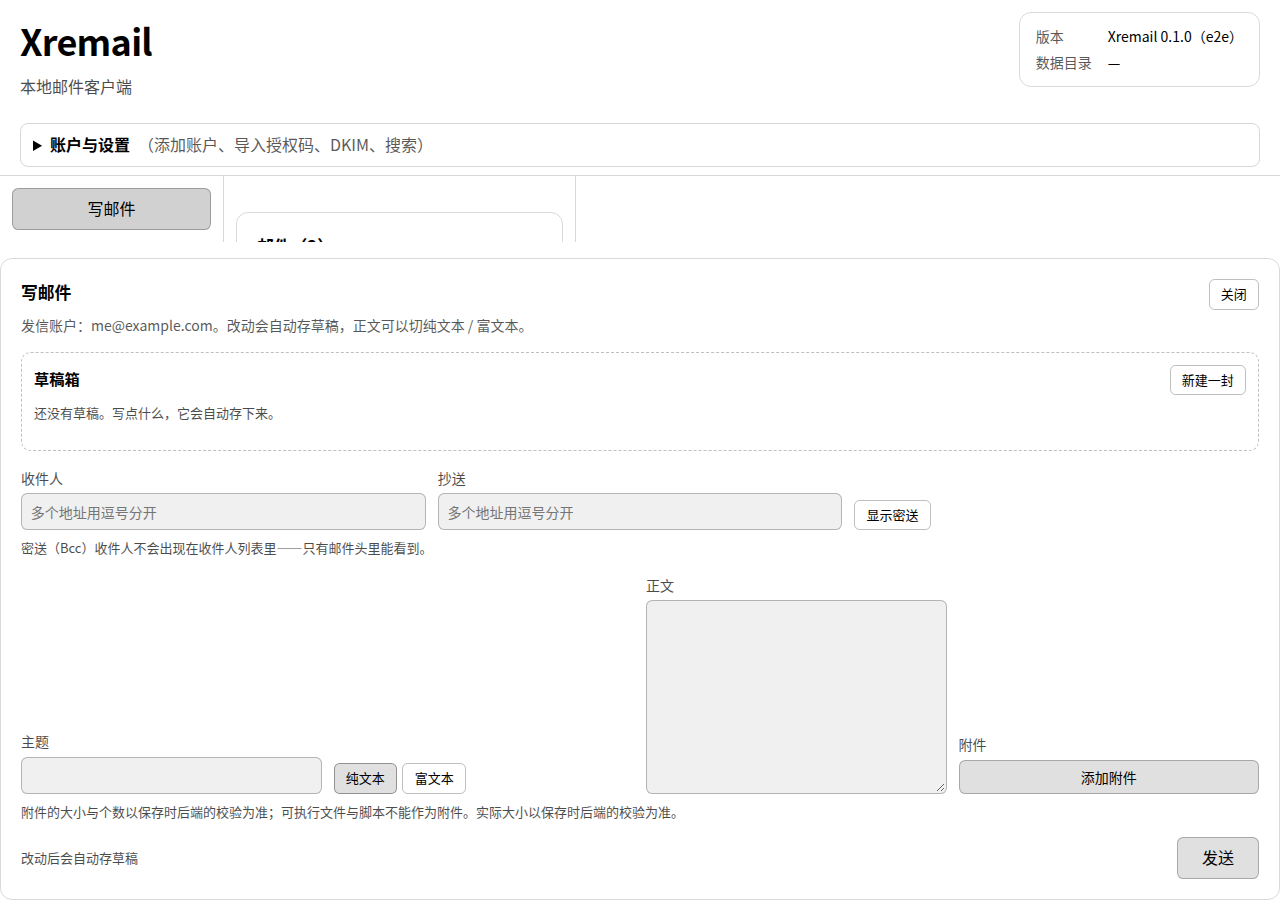
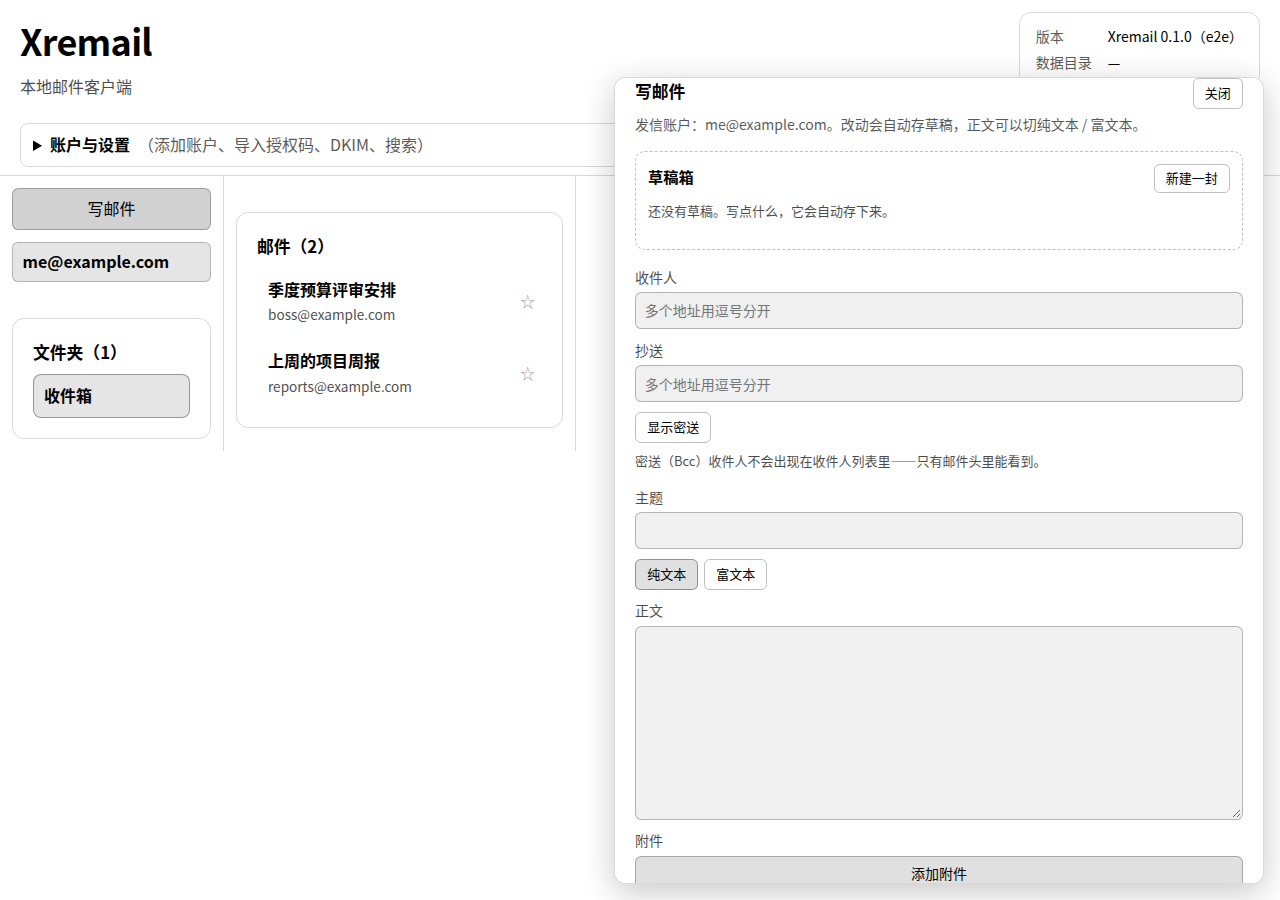
feat(ui): 左栏只留账户切换与文件夹，写信面板改成浮层
第一版三栏改完之后截图暴露出两个问题（都是布局问题，不是逻辑问题）：

## 左栏被账户管理卡撑满
AccountList 是一张完整的管理卡（邮箱、服务商、IMAP/SMTP 地址、授权码输入框、
同步、忘记凭据、删除、DKIM），塞进 11–14rem 的左栏后光它就占掉一屏，
「文件夹」被挤到视口外——每换一次文件夹都要先滚一下，正好违背「要快」。

Gmail 的左栏也只有「写信 + 文件夹」，账户管理在设置里。照做：
- 新增 AccountSwitcher：左栏顶部只做**账户切换**（一行一个邮箱，选中高亮）
- 完整的 AccountList 移进「账户与设置」

## 写信面板把三栏全盖住
compose-panel 原先是普通 section，跟在其它区块后面排；改成三栏后它变成
整页宽的一条，而且内部 repeat(auto-fit, minmax(14rem, 1fr)) 在宽容器里挤成
两列，导致「正文」和「附件」并排、附件掉到右下角。

改法：
- 写信面板改成**右下角浮层**（Gmail 的做法），不参与文档流，写信时还能看列表
- compose-fields 改成单列：写信的阅读顺序是自上而下的，多列只会让人扫错行

## 两处连带修复
- account-email 允许 anywhere 断行、account-detail 两行截断——窄栏里长邮箱
  会把「删除」按钮挤重叠（截图里能看到 me@example.com 与「删除」叠在一起）
- AccountSwitcher 的按钮加 aria-label「切换到 …」，避免与设置区里的管理卡
  重名：账户邮箱现在出现两次，测试按 accessible name 查找会撞车（61 条红）

验证：单测 95 条、E2E 10 条（含 2 条性能）、Rust 1144 条全绿。

diff --git a/apps/shell/src/App.css b/apps/shell/src/App.css
@@ -712,7 +712,10 @@ body {
 
 .compose-fields {
   display: grid;
-  grid-template-columns: repeat(auto-fit, minmax(14rem, 1fr));
+  /* **单列**。原来是 `repeat(auto-fit, minmax(14rem, 1fr))`——在宽容器里会
+     挤成两列，于是「正文」和「附件」并排出现（截图里正文在左、附件掉到右
+     下角）。写信的阅读顺序是自上而下的，多列只会让人扫错行。 */
+  grid-template-columns: minmax(0, 1fr);
   gap: 0.6rem 0.75rem;
   align-items: end;
 }
@@ -1084,4 +1087,109 @@ body {
   user-select: none;
   font-size: 0.9rem;
   opacity: 0.8;
+}
+
+/* ===========================================================================
+   写信面板：右下角浮层（Gmail 的做法）
+   ===========================================================================
+
+   以前 `.compose-panel` 是一个普通 `<section>`，跟在其它区块后面一起纵向排。
+   改成三栏之后它就变成了「整页宽的一条」——把三栏全盖住，而且它内部那个
+   固定宽度的正文框在宽屏上被拉得很怪（正文挤在中间、附件掉到右下角）。
+
+   现在把它做成**浮层**：不参与文档流，不改变三栏的尺寸，写邮件时还能看
+   列表和正文。这也是 Gmail 的选择——写信是个并行任务，不是一次页面跳转。
+*/
+
+.compose-panel {
+  position: fixed;
+  right: 1rem;
+  bottom: 1rem;
+  width: min(38rem, calc(100vw - 2rem));
+  max-height: min(85vh, calc(100vh - 2rem));
+  overflow-y: auto;
+  z-index: 20;
+  /* 浮层容易触发大范围重绘，这里把它限制在自己身上。 */
+  contain: layout paint;
+  box-shadow: 0 8px 32px rgb(0 0 0 / 22%);
+  background: var(--app-surface, #fff);
+}
+
+/* 浮层里那个正文框不要再固定宽度——跟着面板走。 */
+.compose-panel textarea,
+.compose-panel .rich-text-editor {
+  width: 100%;
+  box-sizing: border-box;
+}
+
+@media (max-width: 900px) {
+  .compose-panel {
+    right: 0;
+    bottom: 0;
+    left: 0;
+    width: auto;
+    max-height: 92vh;
+  }
+}
+
+/* ---------------------------------------------------------------------------
+   左栏里的账户卡片：宽度只有 11–14rem，长邮箱会把「删除」按钮挤重叠。
+   让邮箱本身可以断行，别撑着布局。
+   --------------------------------------------------------------------------- */
+.account-email {
+  min-width: 0;
+  overflow-wrap: anywhere;
+  text-align: left;
+}
+
+.account-item {
+  min-width: 0;
+}
+
+.account-detail,
+.account-detail-muted {
+  overflow-wrap: anywhere;
+}
+
+/* 左栏窄，账户卡片里那一长串「IMAP …/SMTP …」按行显示会占掉半屏。
+   限制成两行、超出省略——详细内容在设置区里看。 */
+.account-detail {
+  display: -webkit-box;
+  -webkit-line-clamp: 2;
+  -webkit-box-orient: vertical;
+  overflow: hidden;
+}
+
+/* ---------------------------------------------------------------------------
+   左栏的账户切换器：一行一个邮箱，选中的高亮。
+   完整的管理动作（授权码、同步、删除、DKIM）全在上面的「账户与设置」里。
+   --------------------------------------------------------------------------- */
+.account-switcher {
+  display: flex;
+  flex-direction: column;
+  gap: 0.25rem;
+}
+
+.account-switcher-item {
+  text-align: left;
+  padding: 0.4rem 0.6rem;
+  border: 1px solid transparent;
+  border-radius: 6px;
+  background: none;
+  cursor: pointer;
+  font: inherit;
+  color: inherit;
+  overflow: hidden;
+  text-overflow: ellipsis;
+  white-space: nowrap;
+}
+
+.account-switcher-item:hover {
+  background: color-mix(in srgb, currentColor 6%, transparent);
+}
+
+.account-switcher-item-active {
+  background: color-mix(in srgb, currentColor 10%, transparent);
+  border-color: color-mix(in srgb, currentColor 22%, transparent);
+  font-weight: 600;
 }

diff --git a/apps/shell/src/components/AccountSwitcher.tsx b/apps/shell/src/components/AccountSwitcher.tsx
@@ -1,0 +1,50 @@
+import type { Account } from "../types";
+
+/**
+ * 左栏顶部的**账户切换器**：只显示邮箱 + 是否选中，点一下切账户。
+ *
+ * ## 为什么不直接用 `AccountList`
+ *
+ * `AccountList` 是一张**完整的管理卡**：邮箱、服务商标签、IMAP/SMTP 地址、
+ * 授权码输入框、同步按钮、忘记凭据、删除、DKIM 表单。它在单页布局里是合理的，
+ * 但塞进三栏的左栏（11–14rem）之后，光它就占掉一屏——「文件夹」被挤到视口外，
+ * 每次都要先滚一下才能换文件夹（2026-11-10 实测截图）。
+ *
+ * Gmail 的左栏也只有「写信 + 文件夹」，账户管理在设置里。这里照做：
+ * **左栏只切换账户**，管理动作全部收进上面的「账户与设置」。
+ */
+export default function AccountSwitcher({
+  accounts,
+  selectedId,
+  onSelect,
+}: {
+  accounts: Account[];
+  selectedId: string | null;
+  onSelect: (account: Account) => void;
+}) {
+  if (accounts.length === 0) {
+    return null;
+  }
+
+  return (
+    <nav className="account-switcher" aria-label="账户切换">
+      {accounts.map((account) => (
+        <button
+          key={account.id}
+          type="button"
+          className={
+            account.id === selectedId
+              ? "account-switcher-item account-switcher-item-active"
+              : "account-switcher-item"
+          }
+          title={account.email}
+          aria-current={account.id === selectedId ? "true" : undefined}
+          aria-label={`切换到 ${account.email}`}
+          onClick={() => onSelect(account)}
+        >
+          {account.email}
+        </button>
+      ))}
+    </nav>
+  );
+}

diff --git a/apps/shell/src/App.tsx b/apps/shell/src/App.tsx
@@ -1,5 +1,6 @@
 import AccountForm from "./components/AccountForm";
 import AccountList from "./components/AccountList";
+import AccountSwitcher from "./components/AccountSwitcher";
 import ComposePanel from "./components/ComposePanel";
 import FolderList from "./components/FolderList";
 import MessageList from "./components/MessageList";
@@ -378,6 +379,19 @@ function App() {
           </span>
         </summary>
         <div className="app-settings-body">
+          {/* `accounts` 在首帧是 `null`（还没拉回来）。加载态由下面的
+              「加载中…」负责，这里只在拿到了之后才渲染管理卡。 */}
+          {accounts !== null && (
+            <AccountList
+              accounts={accounts}
+              onSelect={(account) => setAccountId(account.id)}
+            onDelete={handleDelete}
+            onSynced={handleSynced}
+            onError={handleError}
+            onNotice={handleNotice}
+              onChanged={refresh}
+            />
+          )}
           <AccountForm />
           <SearchPanel onOpen={handleOpenHit} onError={handleError} />
         </div>
@@ -399,14 +413,10 @@ function App() {
                 写邮件
               </button>
 
-              <AccountList
+              <AccountSwitcher
                 accounts={accounts}
+                selectedId={accountId}
                 onSelect={(account) => setAccountId(account.id)}
-                onDelete={handleDelete}
-                onSynced={handleSynced}
-                onError={handleError}
-                onNotice={handleNotice}
-                onChanged={refresh}
               />
 
               {accountId && (
